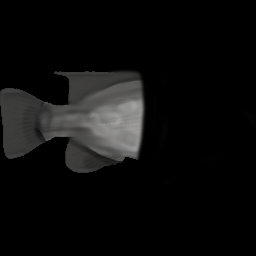
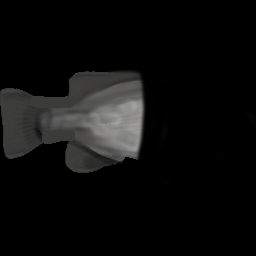
Close the holes.

Changed region(s): [[0.1562, 0.5, 0.2812, 0.5625], [0.125, 0.375, 0.2812, 0.4375], [0.2188, 0.2812, 0.3125, 0.3125]]

diff --git a/script/models/projectedmodel.js b/script/models/projectedmodel.js
@@ -17,6 +17,7 @@ class ProjectedModel extends Drawable {
     this.textureLoaded = new Promise((resolve, reject) => {
       this.textureResolver = resolve;
     });
+    this.vertexCount = 0;
     this.positions = [];
     this.currentLOD = 3;
     this.lowestLOD = 1;
@@ -306,7 +307,8 @@ class ProjectedModel extends Drawable {
   }
 
   getVertexCount() {
-    return ((6 * (this.getLOD()) * (this.getLOD()) * 2) - (this.clipCount * 6 * 2));
+    //return ((6 * (this.getLOD()) * (this.getLOD()) * 2) - (this.clipCount * 6));
+    return this.vertexCount;
   }
   
 
@@ -338,90 +340,81 @@ class ProjectedModel extends Drawable {
             offsetY = one + j * unit;
             if (k) {
               inverse = -1;
+            } else {
+              inverse = 1;
             }
             
             // Consider the map dimensions.
             
             index = ((i * (this.getLOD() + 1)) + (j + 1)) * 4;
             index = raw.length - index;
-            offsetZ1 = (raw[index] / 255) * 1.5 - 0.1;
+            offsetZ1 = (raw[index] / 255) * 1.5;
             clip1 = raw[index];
             index = (((i + 1) * (this.getLOD() + 1)) + (j + 1)) * 4;
             index = raw.length - index;
-            offsetZ2 = (raw[index] / 255) * 1.5 - 0.1;
+            offsetZ2 = (raw[index] / 255) * 1.5;
             clip2 = raw[index];
             index = (((i + 1) * (this.getLOD() + 1)) + (j + 2)) * 4;
             index = raw.length - index;
-            offsetZ3 = (raw[index] / 255) * 1.5 - 0.1;
+            offsetZ3 = (raw[index] / 255) * 1.5;
             clip3 = raw[index];
             index = ((i * (this.getLOD() + 1)) + (j + 2)) * 4;
             index = raw.length - index;
-            offsetZ4 = (raw[index] / 255) * 1.5 - 0.1;
+            offsetZ4 = (raw[index] / 255) * 1.5;
             clip4 = raw[index];
             let nonZeroCandidate = 0, needsSplat = [];
             
             if (clip1 > this.clipLimit) {
-               nonZeroCandidate = offset;
-                this.positions[offset++] = offsetX - 6;
-                this.positions[offset++] = offsetY;
-                this.positions[offset++] = offsetZ1 * heightOffset * inverse;
-              
+              nonZeroCandidate = offset;
             } else {
               needsSplat.push(offset);
-              this.positions[offset++] = offsetX - 6;
-              this.positions[offset++] = offsetY;
-              this.positions[offset++] = offsetZ1 * heightOffset * inverse; 
             }
-          
+            this.positions[offset++] = offsetX - 6;
+            this.positions[offset++] = offsetY;
+            this.positions[offset++] = offsetZ1 * heightOffset * inverse; 
+            if (clip1 < this.clampLimit) {
+              this.positions[offset - 1] = 0;
+            } 
+        
             if (clip2  > this.clipLimit) {
-               nonZeroCandidate = offset;
-                this.positions[offset++] = offsetX + unit - 6;
-                this.positions[offset++] = offsetY;
-                this.positions[offset++] = offsetZ2 * heightOffset * inverse;
-              
+              nonZeroCandidate = offset;
             } else {
               needsSplat.push(offset);
-              this.positions[offset++] = offsetX + unit - 6;
-              this.positions[offset++] = offsetY;
-              this.positions[offset++] = offsetZ2 * heightOffset * inverse; 
             }
-  
+            this.positions[offset++] = offsetX + unit - 6;
+            this.positions[offset++] = offsetY;
+            this.positions[offset++] = offsetZ2 * heightOffset * inverse; 
+            if (clip2 < this.clampLimit) {
+              this.positions[offset - 1] = 0;
+            } 
+        
             if (clip3  > this.clipLimit) {
-                nonZeroCandidate = offset;
-                this.positions[offset++] = offsetX + unit - 6;
-                this.positions[offset++] = offsetY + unit;
-                this.positions[offset++] = offsetZ3 * heightOffset * inverse;
-              
+              nonZeroCandidate = offset;
             } else {
               needsSplat.push(offset);
-              this.positions[offset++] = offsetX + unit - 6;
-              this.positions[offset++] = offsetY + unit;
-              this.positions[offset++] = offsetZ3 * heightOffset * inverse; 
             }
-
+            this.positions[offset++] = offsetX + unit - 6;
+            this.positions[offset++] = offsetY + unit;
+            this.positions[offset++] = offsetZ3 * heightOffset * inverse; 
+            if (clip3 < this.clampLimit) {
+              this.positions[offset - 1] = 0;
+            } 
+        
             if (clip4  > this.clipLimit) {
                 nonZeroCandidate = offset;
-                this.positions[offset++] = offsetX - 6;
-                this.positions[offset++] = offsetY + unit;
-                this.positions[offset++] = offsetZ4 * heightOffset * inverse;
-              
             } else {
               needsSplat.push(offset);
-              
-              this.positions[offset++] = offsetX - 6;
-              this.positions[offset++] = offsetY + unit;
-              this.positions[offset++] = offsetZ4 * heightOffset * inverse;
             }
-
-            if ((clip1 + clip2 + clip3 + clip4) < this.clipLimit) {
+            this.positions[offset++] = offsetX - 6;
+            this.positions[offset++] = offsetY + unit;
+            this.positions[offset++] = offsetZ4 * heightOffset * inverse;
+            if (clip4 < this.clampLimit) {
+              this.positions[offset - 1] = 0;
+            } 
+        
+            if ((clip1 + clip2 + clip3 + clip4) < (this.clipLimit - 0.9)) {
               if (inverse == 1) {
                 clipList.push(clipOffset);
-              } else {
-                console.log('skip|' + (clip1 + clip2 + clip3 + clip4) + '|:' + i + ':' + j + ':' + index + ':' + raw.length);
-              }
-            } else {
-              if (inverse != 1) {
-                console.log('no skip|' + (clip1 + clip2 + clip3 + clip4) + '|:' + i + ':' + j + ':' + index + ':' + raw.length);
               }
             }
             clipOffset++;
@@ -454,7 +447,7 @@ class ProjectedModel extends Drawable {
       // position.
       offset = 0;
       start = 0;
-      let posIndex = 0;
+      let posIndex = 0, skipN = 0, noSkipN = 0, skipNK = 0, noSkipNK = 0;
       for (k = 0; k < 2; k++) {
         for (i = this.getLOD() - 1; i >= 0; i--) {
           for (j = this.getLOD() - 1; j >= 0; j--) {
@@ -466,6 +459,15 @@ class ProjectedModel extends Drawable {
               indices[offset++] = start;
               indices[offset++] = start + 3;
               indices[offset++] = start + 2;
+              
+            } else {
+              indices[offset++] = 0;
+              indices[offset++] = 0;
+              indices[offset++] = 0;
+              indices[offset++] = 0;
+              indices[offset++] = 0;
+              indices[offset++] = 0;
+              
             }
             posIndex++;
             start += 4;
@@ -473,9 +475,6 @@ class ProjectedModel extends Drawable {
         }
         posIndex = 0
       }
-      console.log('Indices:' + posIndex);
-
-
       // Now send the element array to GL
 
       gl.bufferData(gl.ELEMENT_ARRAY_BUFFER, new Uint16Array(indices), gl.STATIC_DRAW);
@@ -518,8 +517,10 @@ class ProjectedModel extends Drawable {
       gl.bufferData(gl.ARRAY_BUFFER, new Float32Array(textureCoordinates),
                     gl.STATIC_DRAW);
       this.buffers.texture = textureCoordBuffer;
-
-      this.clipCount = clipList.length;
+  
+      this.clipCount = clipList.length * 2;
+      this.vertexCount = indices.length;
+      console.log('Total clip: ' + this.clipCount);
       this.setPosition(gl, this.x, this.y, this.z);
       this.textureResolver(true);
     }.bind(this);

diff --git a/script/models/sharktorso.js b/script/models/sharktorso.js
@@ -6,8 +6,8 @@ class SharkTorso extends ProjectedModel {
     this.size = 4;
     this.LOD = 32;
     this.fat = 0.8;
-    this.clipLimit = 1;
-    this.clampLimit = 1;
+    this.clipLimit = 150;
+    this.clampLimit = 125
     this.pivotOffset = -2.5;
     this.centerOffset = -1;
     //this.vertexCount = 6 * (this.LOD * this.LOD) * 2;

diff --git a/script/models/sharktail.js b/script/models/sharktail.js
@@ -7,8 +7,8 @@ class SharkTail extends ProjectedModel {
     this.LOD = 24;
     this.fat = 0.8;
     this.pivotOffset = -2.5;
-    this.clipLimit = 1;
-    this.clampLimit = 1;
+    this.clipLimit = 150;
+    this.clampLimit = 125
     this.centerOffset = -4;
     //this.vertexCount = 6 * (this.LOD * this.LOD) * 2;
   }

diff --git a/script/models/fishtorso.js b/script/models/fishtorso.js
@@ -6,8 +6,8 @@ class FishTorso extends ProjectedModel {
       this.size = 3.5;
       this.LOD = 32;
       this.fat = 0.6;
-      this.clipLimit = 1;
-      this.clampLimit = 1;
+      this.clipLimit = 150;
+      this.clampLimit = 125;
       //this.vertexCount = 6 * (this.LOD * this.LOD) * 2;
     }
   

diff --git a/script/models/fishtail.js b/script/models/fishtail.js
@@ -6,8 +6,8 @@ class FishTail extends ProjectedModel {
     this.size = 3.5;
     this.LOD = 16;
     this.fat = 0.6;
-    this.clipLimit = 10;
-    this.clampLimit = 10;
+    this.clipLimit = 150;
+    this.clampLimit = 125;
     //this.vertexCount = 6 * (this.LOD * this.LOD) * 2;
   }
 
